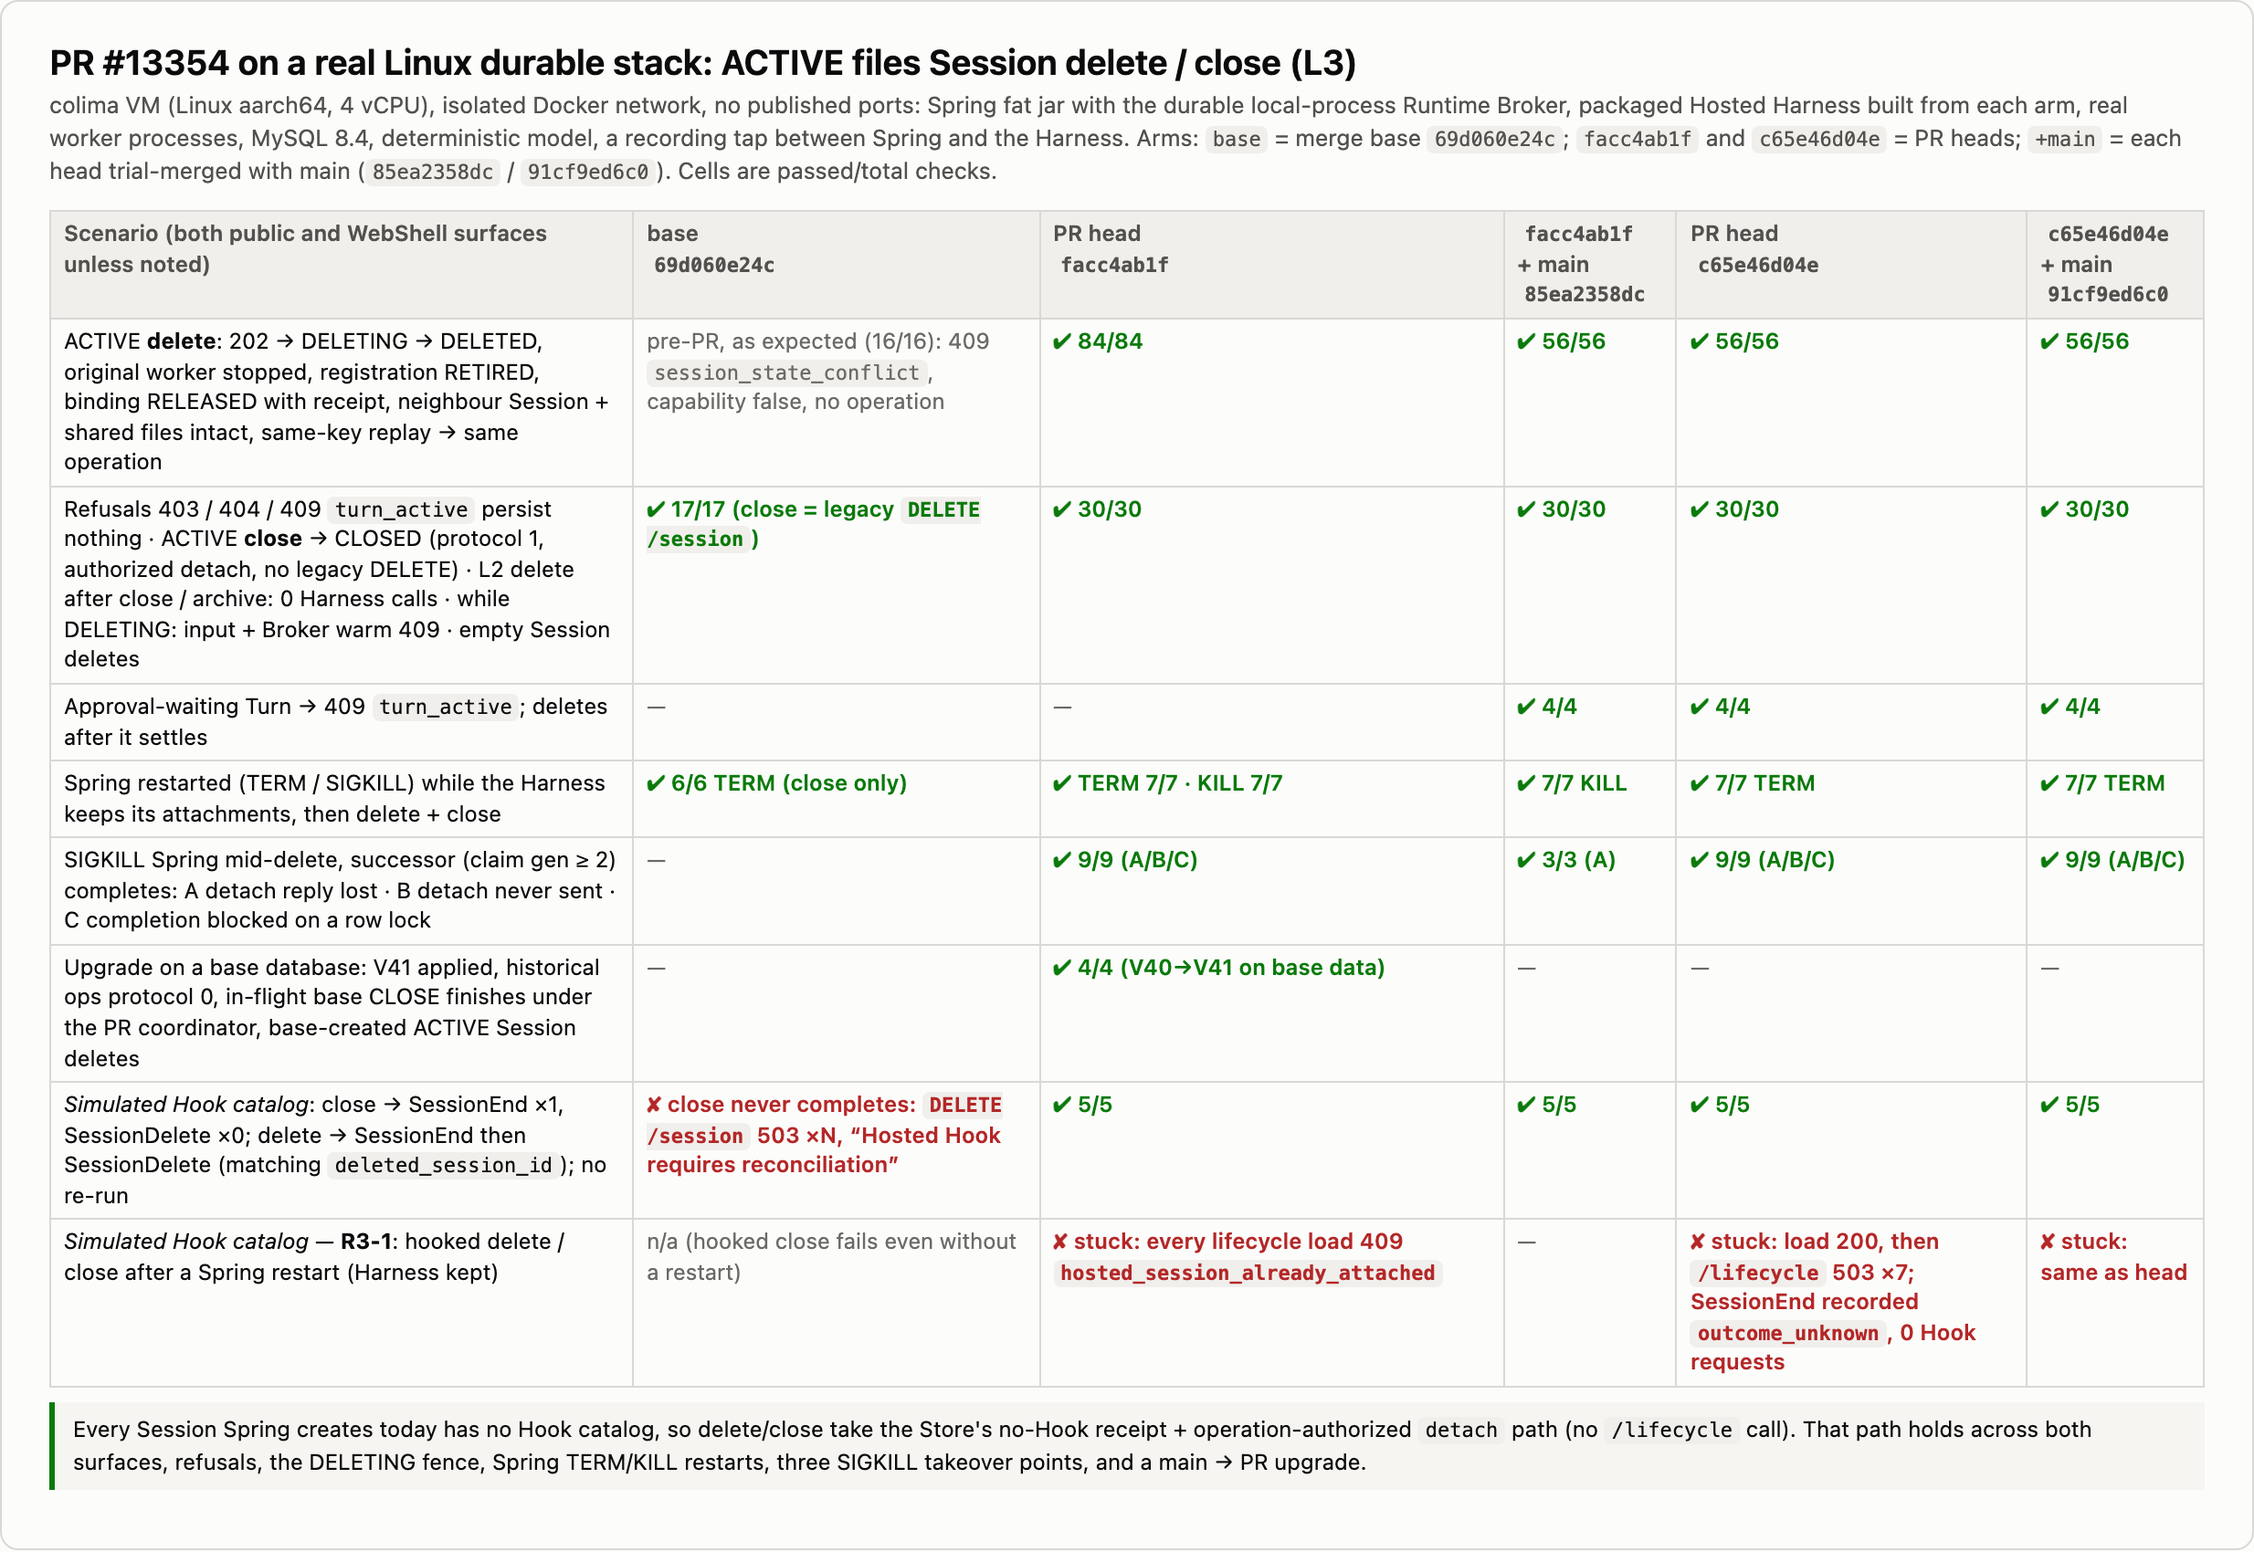
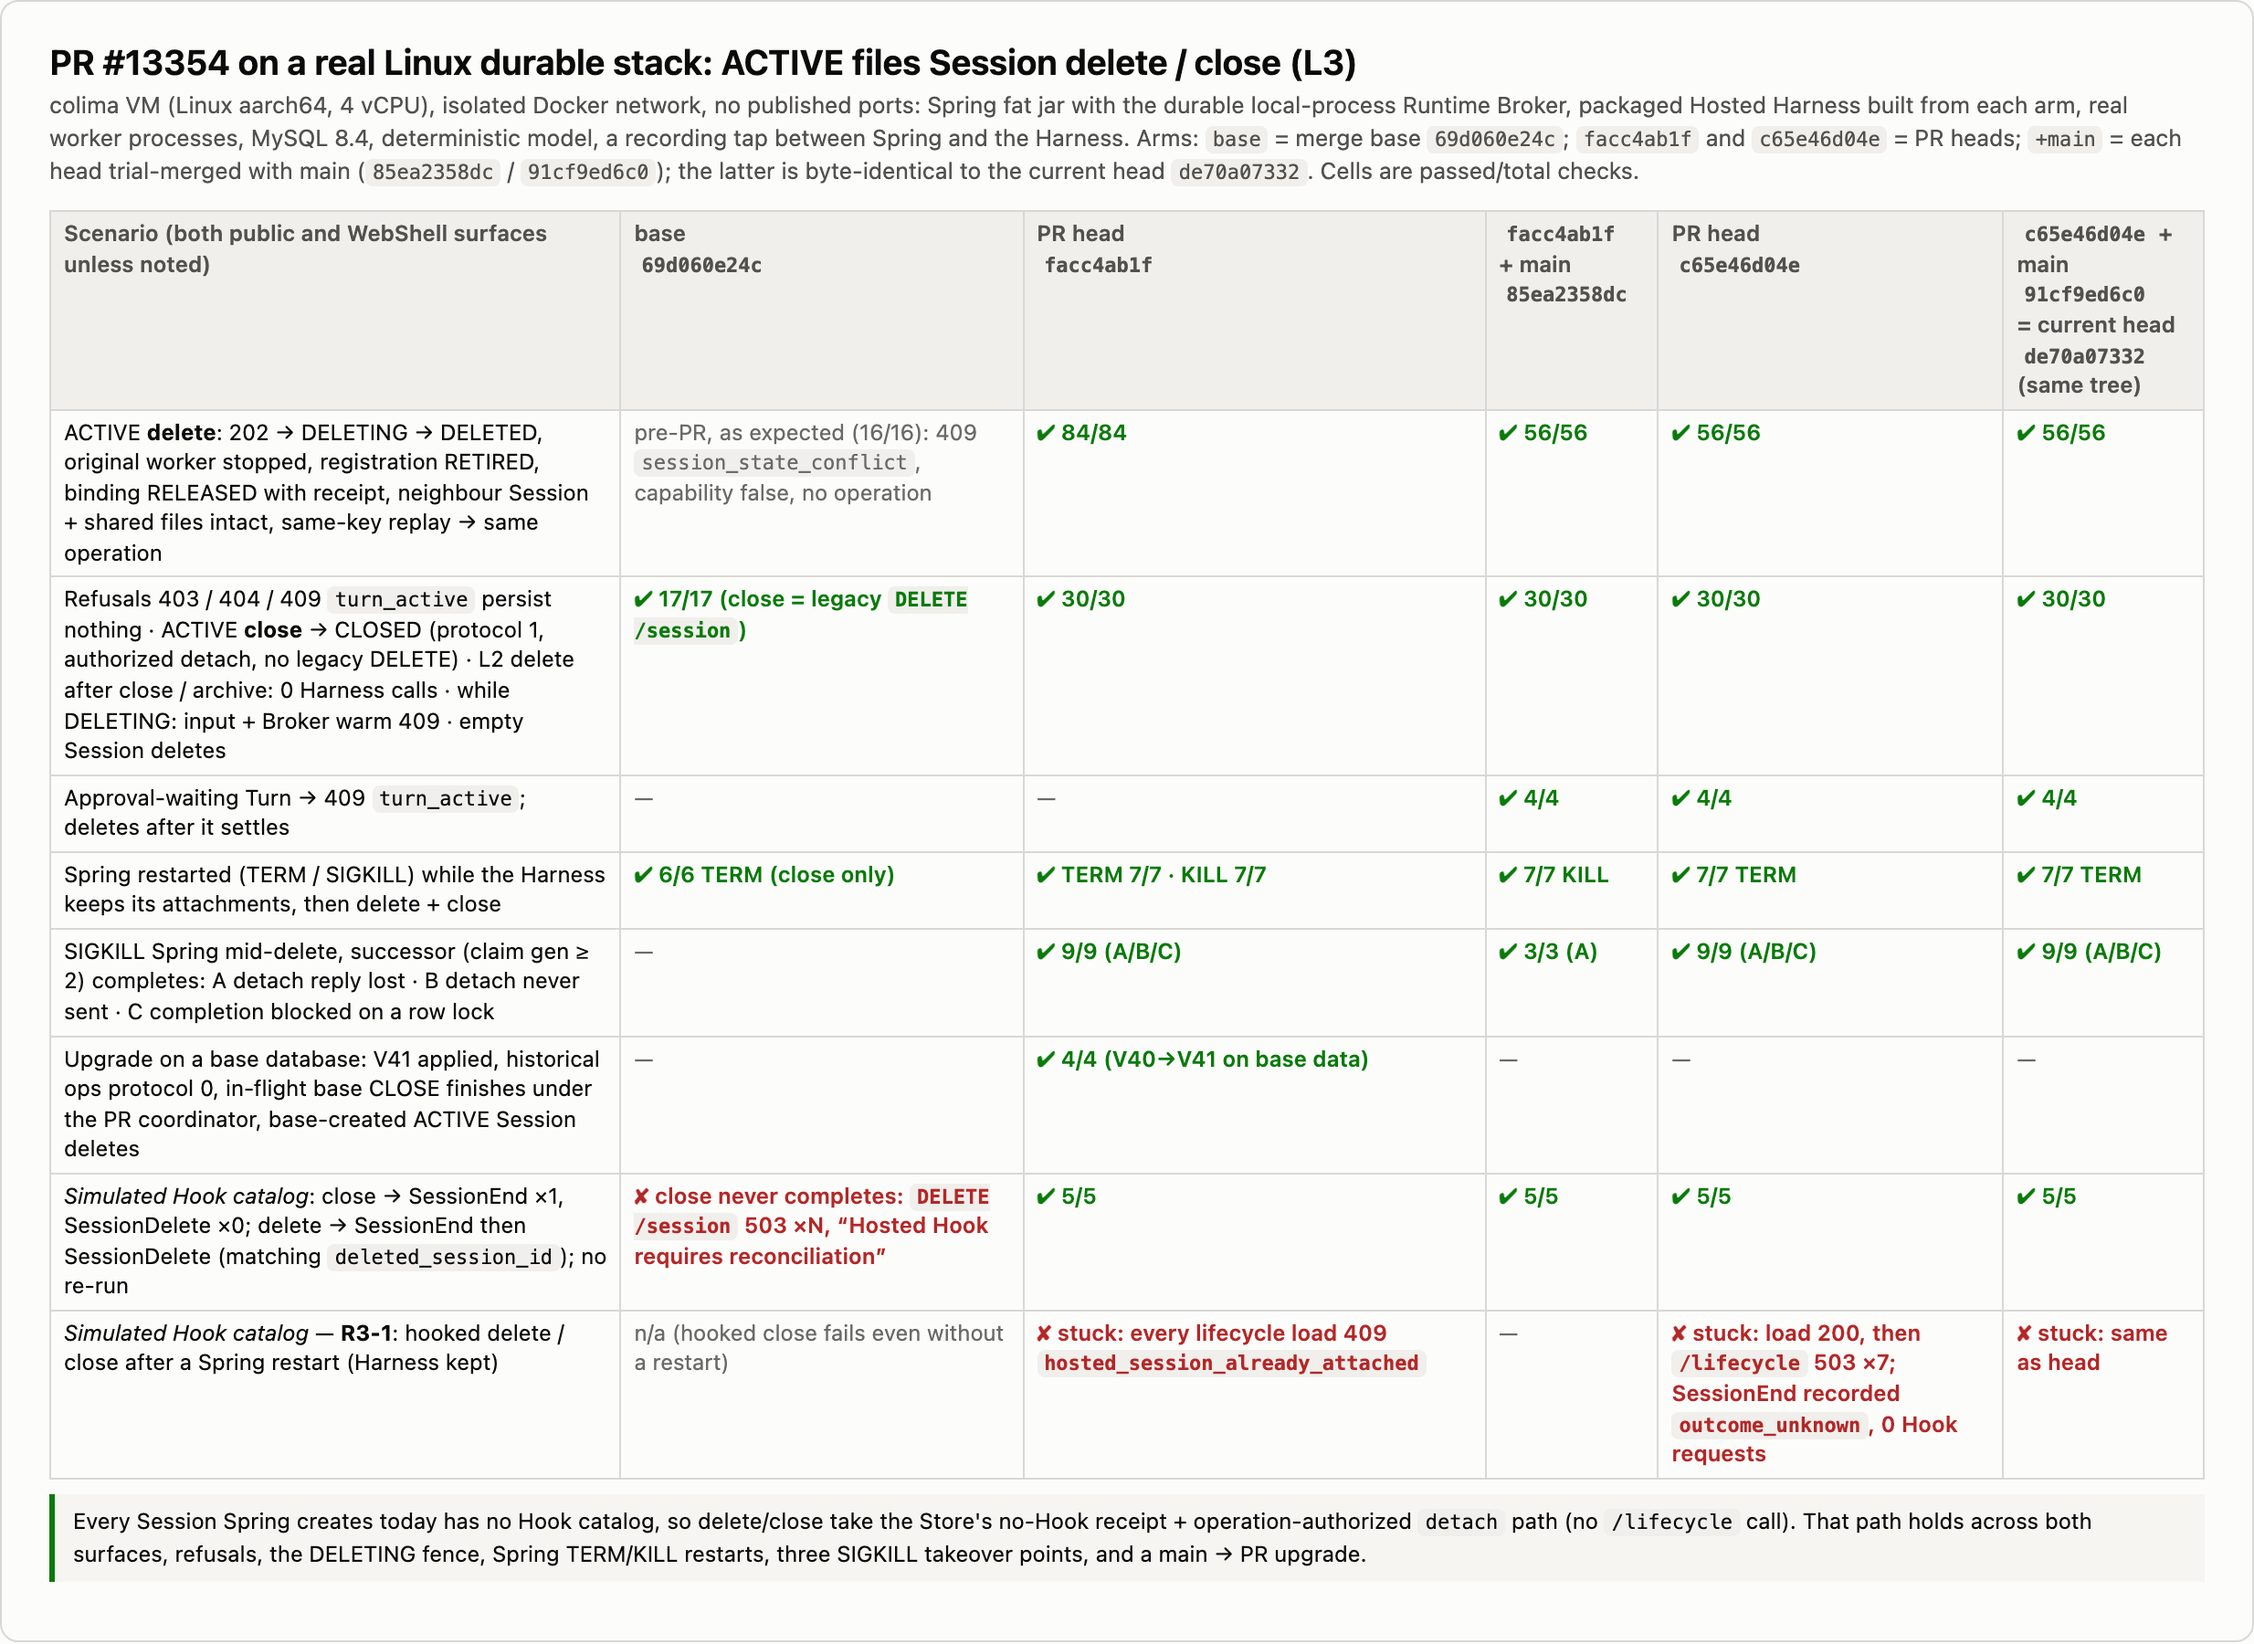
PR #13354 evidence: label current head de70a07332

diff --git a/pr13354/rig/build-summary.py b/pr13354/rig/build-summary.py
@@ -24,7 +24,7 @@ def row(r, label):
     return next((x for x in r['rows'] if x['label'].startswith(label)), None)
 
 arms = ['base', 'facc', 'faccm', 'c65', 'c65m']
-labels = ['base<br><code>69d060e24c</code>', 'PR head<br><code>facc4ab1f</code>', '<code>facc4ab1f</code><br>+ main <code>85ea2358dc</code>', 'PR head<br><code>c65e46d04e</code>', '<code>c65e46d04e</code><br>+ main <code>91cf9ed6c0</code>']
+labels = ['base<br><code>69d060e24c</code>', 'PR head<br><code>facc4ab1f</code>', '<code>facc4ab1f</code><br>+ main <code>85ea2358dc</code>', 'PR head<br><code>c65e46d04e</code>', '<code>c65e46d04e</code> + main <code>91cf9ed6c0</code><br>= current head <code>de70a07332</code> (same tree)']
 dbs = {'base': 'b1', 'facc': 'h1', 'faccm': 'm1', 'c65': 's6', 'c65m': 's7'}
 M = {a: {} for a in arms}
 # delete flow
@@ -93,7 +93,7 @@ panel2 = [
     'hook record: SessionEnd  run.state=recovery_blocked  reason=outcome_unknown  executionCallId=null',
     'operation  : RECOVERY_BLOCKED / workspace_lifecycle_hooks_unsettled / gen7 / att7;  Hook endpoint: 0 requests',
 ]
-if r5: panel2.append(f"c65e46d04e + main 91cf9ed6c0: {'same' if r5['fail'] else 'completes'} ({cnt(r5)} checks)")
+if r5: panel2.append(f"c65e46d04e + main 91cf9ed6c0 (= current head de70a07332, same tree): {'same, delete and close' if r5['fail'] else 'completes'}")
 summary['r31html'] = (
     '<h2>Control (no restart): the hooked path works</h2>' +
     '<table><tr><th>arm</th><th>close</th><th>delete</th></tr>'
@@ -125,7 +125,7 @@ for label, items in [
   ('PR head <code>c65e46d04e</code> (as pushed)', [('pr4a','p8-contention-8x2')]),
   ('main <code>85ea2358dc</code>', [('pc8','p8-contention-8x3'),('pc16','p8-contention-16x2')]),
   ('<code>facc4ab1f</code> + main', [('pm3','p8-contention-8x3'),('pm4','p8-contention-8x3'),('pm8','p8-contention-8x3'),('pm5','p8-contention-16x2'),('pm16','p8-contention-16x2')]),
-  ('<code>c65e46d04e</code> + main <code>91cf9ed6c0</code>', [('pm2a','p8-contention-8x3'),('pm2b','p8-contention-16x2')]),
+  ('<code>c65e46d04e</code> + main = head <code>de70a07332</code>', [('pm2a','p8-contention-8x3'),('pm2b','p8-contention-16x2')]),
 ]:
     for db, name in items:
         x = p8(db, name)
